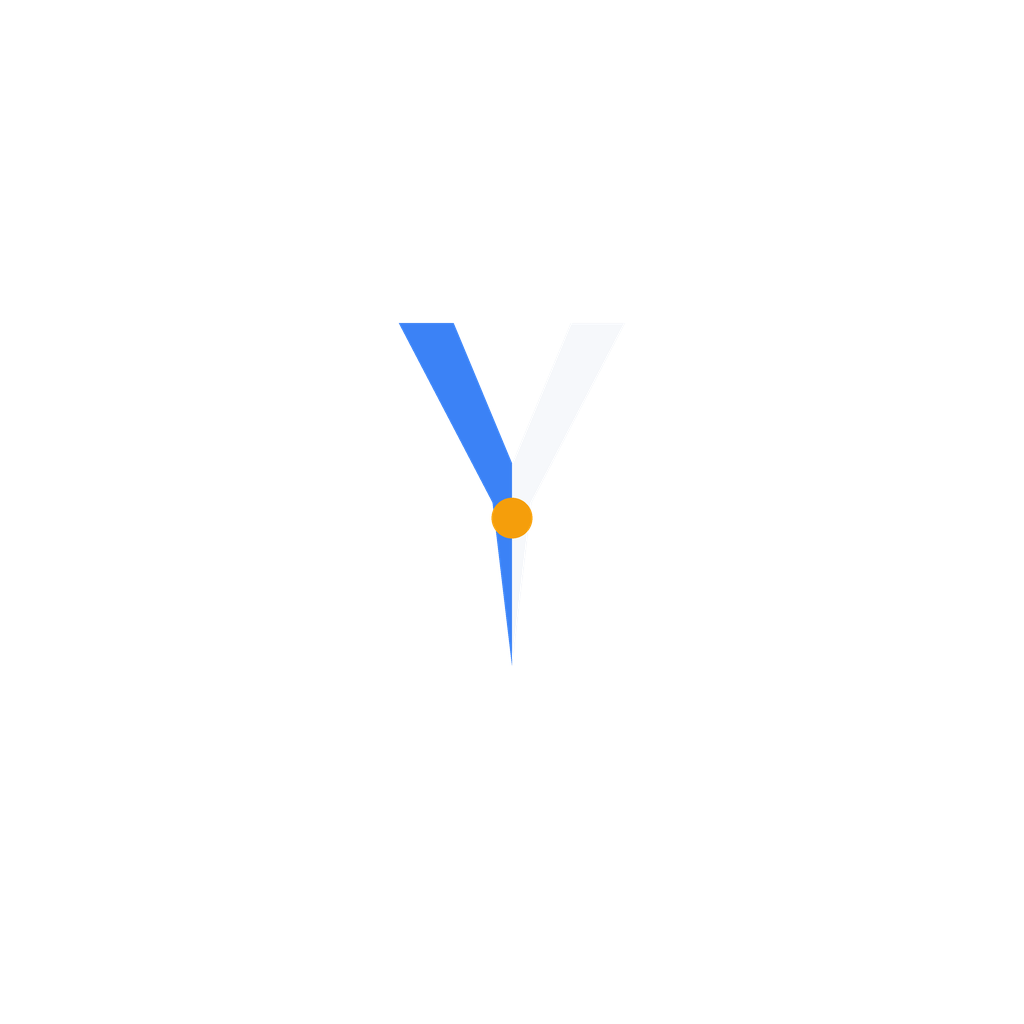
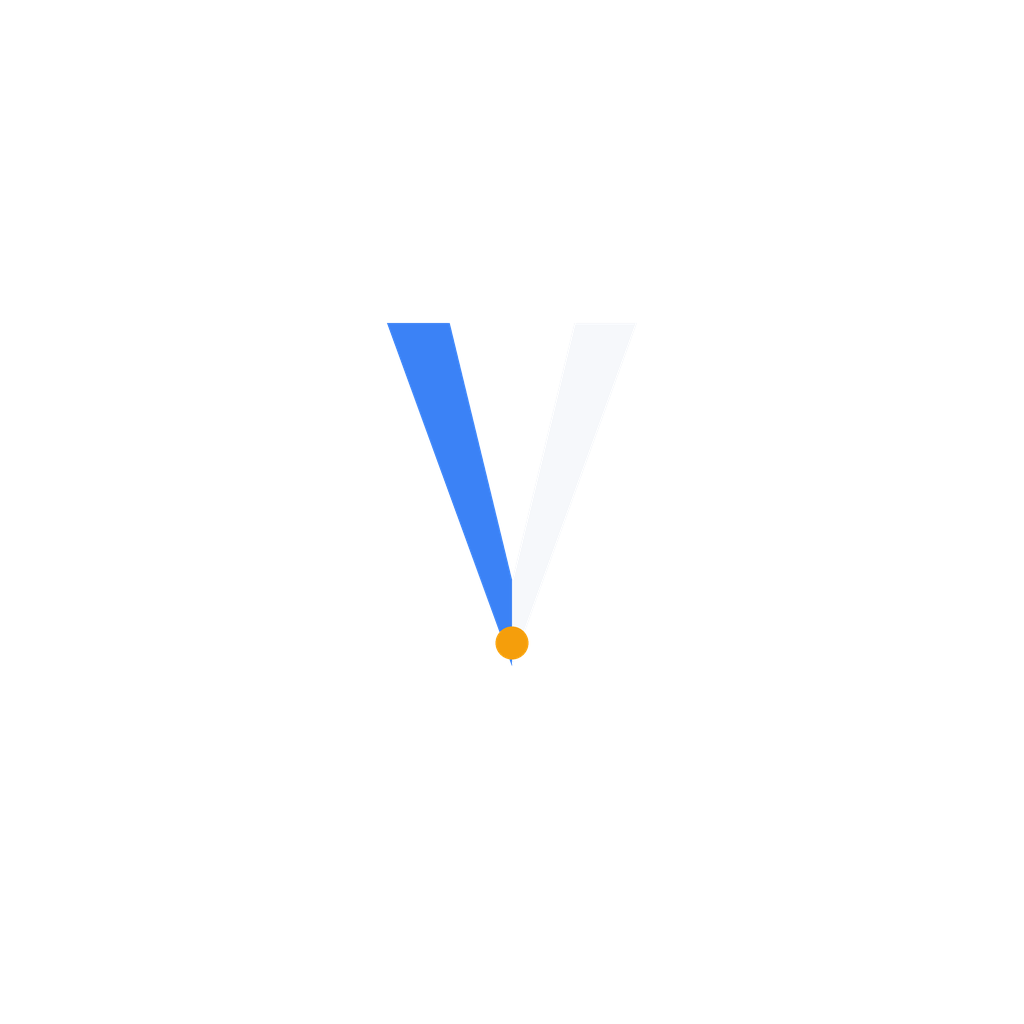
v2.6: true-V mark, suggested visa, cabin+transit, wardrobe groups, airport intel

Changed region(s): [[0.375, 0.3125, 0.5312, 0.6562]]

diff --git a/app/src/screens/Guide.tsx b/app/src/screens/Guide.tsx
@@ -3,6 +3,7 @@ import {
   ActivityIndicator, Alert, Linking, Pressable, ScrollView, StyleSheet, Text, TextInput, View,
 } from 'react-native';
 import { getGuide, getProfile, Guide as GuideT, patchTrip, Trip } from '../api';
+import { transitFor } from '../airlines';
 import PlugArt from '../components/PlugArt';
 import { countryName, flagOf } from '../countries';
 import { Card, Chip } from '../components/ui';
@@ -16,7 +17,7 @@ export default function Guide({ trip, tripId, tripTitle, section, accent, countr
 }) {
   const [air, setAir] = useState(trip.airline ?? '');
   const [tab, setTab] = useState(section);
-  const [g, setG] = useState<GuideT | null>(null);
+  const [g2, setG] = useState<GuideT | null>(null);
   const [nat, setNat] = useState<string | null>(null);
 
   const load = useCallback(async (regen = false) => {
@@ -30,7 +31,7 @@ export default function Guide({ trip, tripId, tripTitle, section, accent, countr
   const open = (url: string) => Linking.openURL(url).catch(() => {});
   const q = encodeURIComponent(place);
 
-  if (!g) {
+  if (!g2) {
     return (
       <View style={s.center}>
         <ActivityIndicator size="large" color={accent} />
@@ -88,17 +89,25 @@ export default function Guide({ trip, tripId, tripTitle, section, accent, countr
                 <Text style={[s.link, { color: accent }]}>IATA Travel Centre ›</Text>
               </Pressable>
               <View style={{ flexDirection: 'row', flexWrap: 'wrap', marginTop: 10 }}>
-                {[['none', 'No visa'], ['evisa', 'eVisa'], ['arrival', 'On arrival'], ['required', 'Visa required']].map(([v, l]) => (
+                {[['none', 'No visa'], ['evisa', 'eVisa'], ['arrival', 'On arrival'], ['required', 'Visa required']].map(([v, l]) => {
+                  const suggested = !trip.visa_status && g2?.visa_hint?.status === v;
+                  return (
                   <Pressable key={v}
-                    style={[sx.vChip, trip.visa_status === v && { backgroundColor: accent, borderColor: accent }]}
+                    style={[sx.vChip,
+                      suggested && { borderColor: accent, borderStyle: 'dashed' as const, backgroundColor: tint(accent, 0.08) },
+                      trip.visa_status === v && { backgroundColor: accent, borderColor: accent }]}
                     onPress={async () => {
                       try { const t = await patchTrip(trip.id, { visa_status: v }); onTripChanged({ ...trip, ...t }); }
                       catch (e: any) { Alert.alert('Visa', e.message); }
                     }}>
-                    <Text style={[sx.vChipText, trip.visa_status === v && { color: '#fff' }]}>{l}</Text>
+                    <Text style={[sx.vChipText, trip.visa_status === v && { color: '#fff' }]}>{l}{suggested ? ' · suggested' : ''}</Text>
                   </Pressable>
-                ))}
+                  );
+                })}
               </View>
+              {!trip.visa_status && !!g2?.visa_hint?.note && g2.visa_hint.status !== 'unknown' && (
+                <Text style={[s.sub, { marginTop: 8 }]}>{g2.visa_hint.note}</Text>
+              )}
               {!!trip.visa_status && (
                 <Text style={[s.sub, { marginTop: 8, fontWeight: '700' }]}>Verified by you — from the official sources above.</Text>
               )}
@@ -108,19 +117,32 @@ export default function Guide({ trip, tripId, tripTitle, section, accent, countr
             </Card>
             <Card>
               <Text style={s.h}>Power & plugs</Text>
-              <Text style={s.rowName}>{g.power.plugs || '—'}</Text>
-              <PlugArt plugs={g.power.plugs || ''} accent={accent} />
-              {!!g.power.note && <Text style={s.sub}>{g.power.note}</Text>}
+              <Text style={s.rowName}>{g2.power.plugs || '—'}</Text>
+              <PlugArt plugs={g2.power.plugs || ''} accent={accent} />
+              {!!g2.power.note && <Text style={s.sub}>{g2.power.note}</Text>}
             </Card>
             <Card>
               <Text style={s.h}>Etiquette</Text>
-              {g.etiquette.map((e, i) => <Text key={i} style={s.bullet}>·  {e}</Text>)}
+              {g2.etiquette.map((e, i) => <Text key={i} style={s.bullet}>·  {e}</Text>)}
             </Card>
             <Card>
               <Text style={s.h}>Local sensitivities</Text>
-              {g.customs_flags.map((e, i) => <Text key={i} style={s.bullet}>·  {e}</Text>)}
+              {g2.customs_flags.map((e, i) => <Text key={i} style={s.bullet}>·  {e}</Text>)}
               <Text style={s.disclaimer}>Cultural guidance, not legal advice — verify locally.</Text>
             </Card>
+            {!!g2.airport?.code && (
+              <Card>
+                <Text style={s.h}>✈ Arrival · {g2.airport.code} {g2.airport.name}</Text>
+                {!!g2.airport.to_city && <Text style={s.sub}>{g2.airport.to_city}</Text>}
+                {g2.airport.highlights.map((h, i) => <Text key={i} style={s.bullet}>·  {h}</Text>)}
+                {!!g2.airport.duty_free && <Text style={s.sub}>Duty free: {g2.airport.duty_free}</Text>}
+                {!!g2.airport.smoking && <Text style={s.sub}>Smoking: {g2.airport.smoking}</Text>}
+                {g2.airport.tips.map((h, i) => <Text key={`t${i}`} style={s.bullet}>·  {h}</Text>)}
+                <Pressable onPress={() => open(`https://www.google.com/search?q=${g2.airport!.code}+airport+news+updates`)}>
+                  <Text style={[s.link, { color: accent }]}>Latest {g2.airport.code} updates ›</Text>
+                </Pressable>
+              </Card>
+            )}
             {trip.travel_mode === 'air' && (
               <Card>
                 <Text style={s.h}>Your flight</Text>
@@ -135,30 +157,41 @@ export default function Guide({ trip, tripId, tripTitle, section, accent, countr
                   </Pressable>
                 )}
                 {!!(trip.airline ?? '').trim() && (
-                  <Pressable onPress={() => open(`https://www.google.com/search?q=${encodeURIComponent((trip.airline ?? '') + ' baggage allowance')}`)}>
+                  <Pressable onPress={() => open(`https://www.google.com/search?q=${encodeURIComponent(((trip.airline ?? '') + ' ' + (trip.cabin_class ?? '') + ' baggage allowance').trim())}`)}>
                     <Text style={[s.link, { color: accent }]}>{trip.airline} baggage policy ›</Text>
                   </Pressable>
                 )}
+                {(() => {
+                  const hub = transitFor(trip.airline, country, nat);
+                  return hub ? (
+                    <>
+                      <Text style={[s.sub, { marginTop: 8, fontWeight: '700' }]}>Likely transit via {hub.iata} · {hub.city} — based on {trip.airline}'s hub.</Text>
+                      <Pressable onPress={() => open(`https://www.google.com/search?q=${hub.iata}+airport+transit+guide`)}>
+                        <Text style={[s.link, { color: accent }]}>{hub.iata} transit guide ›</Text>
+                      </Pressable>
+                    </>
+                  ) : null;
+                })()}
                 <Text style={s.disclaimer}>Allowances vary by fare and route — the official page is the truth; VoyageOS never guesses limits. Set your own bag target in Pack.</Text>
               </Card>
             )}
           </>
         )}
-        {tab === 'eat' && <Card><Text style={s.h}>Worth the trip alone</Text><Rows items={g.eat} /></Card>}
-        {tab === 'play' && <Card><Text style={s.h}>Experiences</Text><Rows items={g.play} /></Card>}
-        {tab === 'visit' && <Card><Text style={s.h}>Sights & districts</Text><Rows items={g.visit} /></Card>}
+        {tab === 'eat' && <Card><Text style={s.h}>Worth the trip alone</Text><Rows items={g2.eat} /></Card>}
+        {tab === 'play' && <Card><Text style={s.h}>Experiences</Text><Rows items={g2.play} /></Card>}
+        {tab === 'visit' && <Card><Text style={s.h}>Sights & districts</Text><Rows items={g2.visit} /></Card>}
         {tab === 'go' && (
           <>
             <Card>
               <Text style={s.h}>From the airport</Text>
-              {g.go.from_airport.map((e, i) => <Text key={i} style={s.bullet}>·  {e}</Text>)}
+              {g2.go.from_airport.map((e, i) => <Text key={i} style={s.bullet}>·  {e}</Text>)}
               <Pressable onPress={() => open(`https://www.google.com/maps/dir/?api=1&destination=${q}`)}>
                 <Text style={[s.link, { color: accent }]}>Directions to {place} ›</Text>
               </Pressable>
             </Card>
             <Card>
               <Text style={s.h}>Getting around</Text>
-              {g.go.around.map((e, i) => <Text key={i} style={s.bullet}>·  {e}</Text>)}
+              {g2.go.around.map((e, i) => <Text key={i} style={s.bullet}>·  {e}</Text>)}
               <Pressable onPress={() => open(`https://www.google.com/maps/search/?api=1&query=public+transport+${q}`)}>
                 <Text style={[s.link, { color: accent }]}>Open the map ›</Text>
               </Pressable>

diff --git a/app/src/airlines.ts b/app/src/airlines.ts
@@ -1,0 +1,33 @@
+// Carrier hub table — deterministic transit inference. "Likely", never asserted.
+type Hub = { match: string[]; iata: string; city: string; cc: string };
+const HUBS: Hub[] = [
+  { match: ['qatar'], iata: 'DOH', city: 'Doha', cc: 'QA' },
+  { match: ['emirates'], iata: 'DXB', city: 'Dubai', cc: 'AE' },
+  { match: ['etihad'], iata: 'AUH', city: 'Abu Dhabi', cc: 'AE' },
+  { match: ['flydubai'], iata: 'DXB', city: 'Dubai', cc: 'AE' },
+  { match: ['turkish'], iata: 'IST', city: 'Istanbul', cc: 'TR' },
+  { match: ['pegasus'], iata: 'SAW', city: 'Istanbul', cc: 'TR' },
+  { match: ['lufthansa'], iata: 'FRA', city: 'Frankfurt', cc: 'DE' },
+  { match: ['klm'], iata: 'AMS', city: 'Amsterdam', cc: 'NL' },
+  { match: ['air france'], iata: 'CDG', city: 'Paris', cc: 'FR' },
+  { match: ['british'], iata: 'LHR', city: 'London', cc: 'GB' },
+  { match: ['kuwait airways'], iata: 'KWI', city: 'Kuwait City', cc: 'KW' },
+  { match: ['jazeera'], iata: 'KWI', city: 'Kuwait City', cc: 'KW' },
+  { match: ['saudia'], iata: 'JED', city: 'Jeddah', cc: 'SA' },
+  { match: ['gulf air'], iata: 'BAH', city: 'Bahrain', cc: 'BH' },
+  { match: ['oman air'], iata: 'MCT', city: 'Muscat', cc: 'OM' },
+  { match: ['royal jordanian'], iata: 'AMM', city: 'Amman', cc: 'JO' },
+  { match: ['egyptair'], iata: 'CAI', city: 'Cairo', cc: 'EG' },
+  { match: ['ethiopian'], iata: 'ADD', city: 'Addis Ababa', cc: 'ET' },
+  { match: ['singapore airlines'], iata: 'SIN', city: 'Singapore', cc: 'SG' },
+  { match: ['cathay'], iata: 'HKG', city: 'Hong Kong', cc: 'CN' },
+];
+export function transitFor(airline?: string | null, destCC?: string | null, homeCC?: string | null) {
+  const a = (airline || '').toLowerCase();
+  if (!a) return null;
+  const hub = HUBS.find(h => h.match.some(m => a.includes(m)));
+  if (!hub) return null;
+  const d = (destCC || '').toUpperCase(), h = (homeCC || '').toUpperCase();
+  if (hub.cc === d || (h && hub.cc === h)) return null; // hub is an endpoint, not a stop
+  return hub;
+}

diff --git a/app/src/api.ts b/app/src/api.ts
@@ -8,11 +8,12 @@ export function setAuthFailHandler(fn: () => void) { onAuthFail = fn; }
 
 export type Trip = {
   place?: string | null; country_code?: string | null; travel_mode?: string | null;
-  airline?: string | null; visa_status?: string | null;
+  airline?: string | null; visa_status?: string | null; cabin_class?: string | null;
   id: string; title: string; start_date: string; end_date: string;
   trip_type?: string | null; status: string;
 };
 export type PackItem = {
+  style_tag?: string | null;
   id: string; name: string; category: string; qty: number;
   status: 'suggested' | 'accepted' | 'packed' | 'rejected';
   reason?: string | null; source: string;
@@ -138,6 +139,8 @@ export type Guide = {
   visit: { name: string; note: string }[];
   go: { from_airport: string[]; around: string[] };
   health?: string[];
+  visa_hint?: { status: string; note: string };
+  airport?: { code: string; name: string; to_city: string; highlights: string[]; duty_free: string; smoking: string; tips: string[] };
   task_suggestions: string[];
 };
 export const getGuide = (tripId: string, regenerate = false):
@@ -163,7 +166,7 @@ export const listNotes = (tripId: string): Promise<Note[]> => req(`/v1/trips/${t
 export const addNote = (tripId: string, body: string, photos: { b64: string; mime: string }[] = []): Promise<Note> =>
   req(`/v1/trips/${tripId}/notes`, { method: 'POST', body: JSON.stringify({ body, photos }) });
 
-export const patchTrip = (id: string, b: { title?: string; start_date?: string; end_date?: string; airline?: string; visa_status?: string }): Promise<Trip> =>
+export const patchTrip = (id: string, b: { title?: string; start_date?: string; end_date?: string; airline?: string; visa_status?: string; cabin_class?: string }): Promise<Trip> =>
   req(`/v1/trips/${id}`, { method: 'PATCH', body: JSON.stringify(b) });
 export const deleteTrip = (id: string): Promise<void> =>
   req(`/v1/trips/${id}`, { method: 'DELETE' });

diff --git a/app/src/screens/Packing.tsx b/app/src/screens/Packing.tsx
@@ -107,11 +107,27 @@ export default function Packing({ tripId, tripTitle, onBack, onDebrief }: {
   }
 
   const packed = items.filter(i => i.status === 'packed').length;
+  const WARDROBE: [string, string][] = [
+    ['underwear', 'Underwear'], ['sleep', 'Sleepwear'], ['casual', 'Casual'],
+    ['smart_casual', 'Smart casual'], ['formal', 'Formal'], ['traditional', 'Traditional'],
+    ['athleisure', 'Active'], ['footwear', 'Shoes'],
+  ];
   const groups: { cat: string; rows: PackItem[] }[] = [];
+  const push = (cat: string, it: PackItem) => {
+    const g = groups.find(x => x.cat === cat);
+    if (g) g.rows.push(it); else groups.push({ cat, rows: [it] });
+  };
   for (const it of items) {
-    const g = groups.find(x => x.cat === it.category);
-    if (g) g.rows.push(it); else groups.push({ cat: it.category, rows: [it] });
+    if (it.category === 'clothing' || it.category === 'footwear') {
+      const tag = WARDROBE.find(([k]) => k === (it.style_tag ?? ''));
+      push(tag ? tag[1] : it.category === 'footwear' ? 'Shoes' : 'Clothing', it);
+    } else push(it.category, it);
   }
+  const ORDER = [...WARDROBE.map(([, l]) => l), 'Clothing'];
+  groups.sort((a, b) => {
+    const ia = ORDER.indexOf(a.cat), ib = ORDER.indexOf(b.cat);
+    return (ia === -1 ? 99 : ia) - (ib === -1 ? 99 : ib);
+  });
 
   return (
     <View style={{ flex: 1, backgroundColor: C.bg }}>

diff --git a/app/src/screens/Wizard.tsx b/app/src/screens/Wizard.tsx
@@ -31,6 +31,7 @@ export default function Wizard({ onDone, onCancel }: {
   const [mode, setMode] = useState('air');
   const [stay, setStay] = useState('');
   const [airline, setAirline] = useState('');
+  const [cabin, setCabin] = useState('economy');
   const [hits, setHits] = useState<PlaceHit[]>([]);
   const [chosen, setChosen] = useState(false);
   const [start, setStart] = useState(defStart);
@@ -126,8 +127,16 @@ export default function Wizard({ onDone, onCancel }: {
             ))}
           </View>
           {mode === 'air' && (
+            <>
             <Field label="AIRLINE (OPTIONAL)" value={airline} onChange={setAirline}
               placeholder="e.g. Jazeera, Qatar Airways" />
+            <Text style={s.modeLabel}>CABIN</Text>
+            <View style={s.chipWrap}>
+              {[['economy','Economy'],['premium','Premium'],['business','Business'],['first','First']].map(([v,l]) => (
+                <Chip key={v} label={l} selected={cabin === v} onPress={() => setCabin(v)} />
+              ))}
+            </View>
+            </>
           )}
           <Field label="WHERE ARE YOU STAYING? (OPTIONAL)" value={stay} onChange={setStay}
             placeholder="Hotel or area — tailors your guide" />

diff --git a/app/src/components/Wordmark.tsx b/app/src/components/Wordmark.tsx
@@ -23,9 +23,9 @@ export default function Wordmark({ size = 30, onPress }: { size?: number; onPres
       <Animated.View style={{ transform: [{ rotate }], marginRight: -3, marginBottom: 1 }}>
         <Svg width={s} height={s} viewBox="0 0 100 100">
           {/* tapered needle-V: pivot dot, slim arms, sharp south tip */}
-          <Polygon points="50,96 45,54 21,8 35,8 50,44" fill={C.blue} />
-          <Polygon points="50,96 55,54 79,8 65,8 50,44" fill={C.text} />
-          <Circle cx="50" cy="58" r="5.5" fill="#F59E0B" />
+          <Polygon points="50,96 18,8 34,8 50,74" fill={C.blue} />
+          <Polygon points="50,96 82,8 66,8 50,74" fill={C.text} />
+          <Circle cx="50" cy="90" r="4.5" fill="#F59E0B" />
         </Svg>
       </Animated.View>
       <Text style={{ fontSize: size, fontWeight: '800', color: C.text, letterSpacing: -1.2 }}>oyage</Text>

diff --git a/api/ai_gateway/prompts.py b/api/ai_gateway/prompts.py
@@ -1,7 +1,7 @@
 """Generation prompt — v0.5-2: adds the memory loop (Part 2 F2.4 read path).
 Versioned: bump PROMPT_VERSION on any change so generation_snapshot stays honest."""
 
-PROMPT_VERSION = "v0.5-3"
+PROMPT_VERSION = "v0.5-4"
 
 PACKING_SYSTEM_PROMPT = """You are VoyageOS's packing engine. You suggest; you never decide, calculate, or invent regulations.
 
@@ -9,12 +9,13 @@ INPUT: a JSON trip context (trip, dates, month, duration, destinations, activiti
 
 RULES
 1. Output ONLY valid JSON matching the schema below. No prose, no markdown fences.
-2. Every item has: name (<=60 chars), category (clothing|footwear|toiletries|medications|electronics|documents|activity_gear|kids|comfort|misc), item_class (underwear|tops|bottoms|sleepwear|toiletry_kit|medication|charger|other), qty (integer 1-14 — advisory only, the app recalculates), reason (<=15 words citing concrete input data), confidence (0-1), source_signal (activity|duration|destination|season|history|weather), priority (high|normal|optional).
+2. Every item has: name (<=60 chars), category (clothing|footwear|toiletries|medications|electronics|documents|activity_gear|kids|comfort|misc), item_class (underwear|tops|bottoms|sleepwear|toiletry_kit|medication|charger|other), qty (integer 1-14 — advisory only, the app recalculates), reason (<=15 words citing concrete input data), confidence (0-1), source_signal (activity|duration|destination|season|history|weather), priority (high|normal|optional), and for clothing/footwear a style_tag (underwear|casual|smart_casual|formal|traditional|footwear|athleisure|sleep).
 3. WEATHER: if weather_daily is provided, treat it as ground truth — cite concrete values in reasons ("Rain 80% Aug 13") with source_signal "weather". If absent, reason only in general seasonal terms and never invent temperatures, forecasts, or percentages.
 4. Never state visa, vaccination, customs, airline, or medical requirements. If one seems relevant, add a short line to task_suggestions instead (e.g. "Check France entry requirements").
 5. MEMORY: if item_history.previously_forgot lists items relevant to this trip, include each with priority "high", source_signal "history", and a reason that names the history plainly, e.g. "You forgot this before (2026-05)". Items in item_history.often_unused that you would otherwise include: still include them but with priority "optional" and a reason noting they went unused on past trips.
 6. 25-45 items for a typical one-week trip; cover every relevant category; consolidate (one "T-shirt" row with a qty, never five rows).
 7. Reasons are specific and calm: "Daily trail hiking, 8 days", not "you might need it".
+8. Respect local dress norms: Gulf/Arab destinations may warrant traditional wear (dishdasha, ghutra) with style_tag "traditional" when the traveler context fits; business or conference trips get a "formal" set (suit, ties).
 
 OUTPUT SCHEMA
 {"items":[{"name":"...","category":"...","item_class":"...","qty":1,"reason":"...","confidence":0.9,"source_signal":"...","priority":"normal"}],"missing_inputs":["..."],"task_suggestions":["..."]}"""

diff --git a/api/guide/service.py b/api/guide/service.py
@@ -29,6 +29,16 @@ def sanitize(raw: dict) -> dict:
                 rows.append({"name": _s(item.get("name"), 60), "note": _s(item.get("note"))})
         out[key] = rows
     go = raw.get("go") or {}
+    vh = raw.get("visa_hint") or {}
+    st = vh.get("status")
+    out["visa_hint"] = {"status": st if st in ("none", "evisa", "arrival", "required") else "unknown",
+                        "note": _s(vh.get("note"), 120)}
+    ap = raw.get("airport") or {}
+    out["airport"] = {"code": _s(ap.get("code"), 4).upper(), "name": _s(ap.get("name"), 60),
+                      "to_city": _s(ap.get("to_city")),
+                      "highlights": [_s(x) for x in (ap.get("highlights") or [])[:4] if _s(x)],
+                      "duty_free": _s(ap.get("duty_free")), "smoking": _s(ap.get("smoking")),
+                      "tips": [_s(x) for x in (ap.get("tips") or [])[:3] if _s(x)]}
     out["go"] = {
         "from_airport": [_s(x) for x in (go.get("from_airport") or [])[:4] if _s(x)],
         "around": [_s(x) for x in (go.get("around") or [])[:4] if _s(x)],
@@ -62,12 +72,15 @@ def get_guide(db, trip: dict, user_id: str, *, regenerate: bool = False) -> dict
     acts = [a["type"] for a in db.table("activities").select("type")
             .eq("trip_id", trip["id"]).execute().data]
     accommodation = (dests[0].get("accommodation") or {}).get("name") if dests else None
+    nat_rows = db.table("user_preferences").select("extras").eq("user_id", user_id).execute().data
+    nationality = ((nat_rows[0].get("extras") if nat_rows else {}) or {}).get("nationality")
 
     gateway.check_budget(db, user_id)
     ctx = {"destination": {"place": place, "country": country},
            "month": trip["start_date"][5:7], "start_date": trip["start_date"],
            "duration_days": None, "activities": sorted(set(acts)),
-           "accommodation": accommodation, "travel_mode": trip.get("travel_mode")}
+           "accommodation": accommodation, "travel_mode": trip.get("travel_mode"),
+           "nationality": nationality}
     result = gateway.complete("guide_generate", GUIDE_SYSTEM_PROMPT,
                               json.dumps(ctx), db=db, user_id=user_id, max_tokens=2000)
     try:

diff --git a/api/guide/prompts.py b/api/guide/prompts.py
@@ -2,7 +2,7 @@
 the model may write culture, food, sights, and transport MODES; it may never
 assert visa, vaccination, customs-law, or legality claims, or invent prices."""
 
-GUIDE_PROMPT_VERSION = "guide-v3"
+GUIDE_PROMPT_VERSION = "guide-v4"
 
 GUIDE_SYSTEM_PROMPT = """You are VoyageOS's destination guide writer. Editorial voice: warm, concrete, premium — a well-traveled friend, never a brochure.
 
@@ -24,5 +24,11 @@ SCHEMA
  "visit":[{"name":"...","note":"..."}],  // 5-6: sights, districts, day trips
  "go":{"from_airport":["..."],"around":["..."]},  // transport MODES only, 2-4 each
  "health":["..."],               // 3-5 health-packing tips for this destination (meds, sun, water, insurance card)
+ "visa_hint":{"status":"none|evisa|arrival|required|unknown","note":"<=120 chars"},
+   // status only when nationality is provided AND widely known & stable; else "unknown".
+   // note must say rules change and to confirm with official sources.
+ "airport":{"code":"IATA","name":"...","to_city":"distance + typical ways into town",
+   "highlights":["standout shops or food"],"duty_free":"one line","smoking":"one line",
+   "tips":["..."]},   // the destination's arrival airport; evergreen facts, verify tone
  "task_suggestions":["..."]}     // e.g. "Check Qatar entry requirements for your nationality"
 """

diff --git a/api/trips/models.py b/api/trips/models.py
@@ -10,6 +10,7 @@ class TripCreate(BaseModel):
     trip_type: str | None = None
     travel_mode: str | None = Field(default=None, max_length=12)  # air|train|ship|car
     airline: str | None = Field(default=None, max_length=60)
+    cabin_class: str | None = Field(default=None, max_length=16)
 
     @model_validator(mode="after")
     def dates_ordered(self):
@@ -39,3 +40,4 @@ class TripPatch(BaseModel):
     travel_mode: str | None = Field(default=None, max_length=12)
     airline: str | None = Field(default=None, max_length=60)
     visa_status: str | None = Field(default=None, max_length=16)  # none|evisa|arrival|required
+    cabin_class: str | None = Field(default=None, max_length=16)

diff --git a/api/packing/service.py b/api/packing/service.py
@@ -65,6 +65,7 @@ def _persist(db, trip_id: str, traveler_id: str, items: list[dict], *,
             "name": it["name"], "category": it["category"], "qty": it["qty"],
             "status": "suggested",
             "source": it["source_signal"] if it.get("source_signal") in ("history", "weather") else source,
+            "style_tag": it.get("style_tag"),
             "reason": it["reason"], "confidence": it["confidence"], "sort": i,
         })
     db.table("packing_list_items").insert(rows).execute()

diff --git a/api/packing/schemas.py b/api/packing/schemas.py
@@ -19,6 +19,7 @@ class GenItem(BaseModel):
     reason: str = Field(min_length=1, max_length=120)
     confidence: float = Field(ge=0, le=1)
     source_signal: Literal["activity", "duration", "destination", "season", "history", "weather"] = "destination"
+    style_tag: Literal["underwear", "casual", "smart_casual", "formal", "traditional", "footwear", "athleisure", "sleep"] | None = None
     priority: Literal["high", "normal", "optional"] = "normal"
 
 
